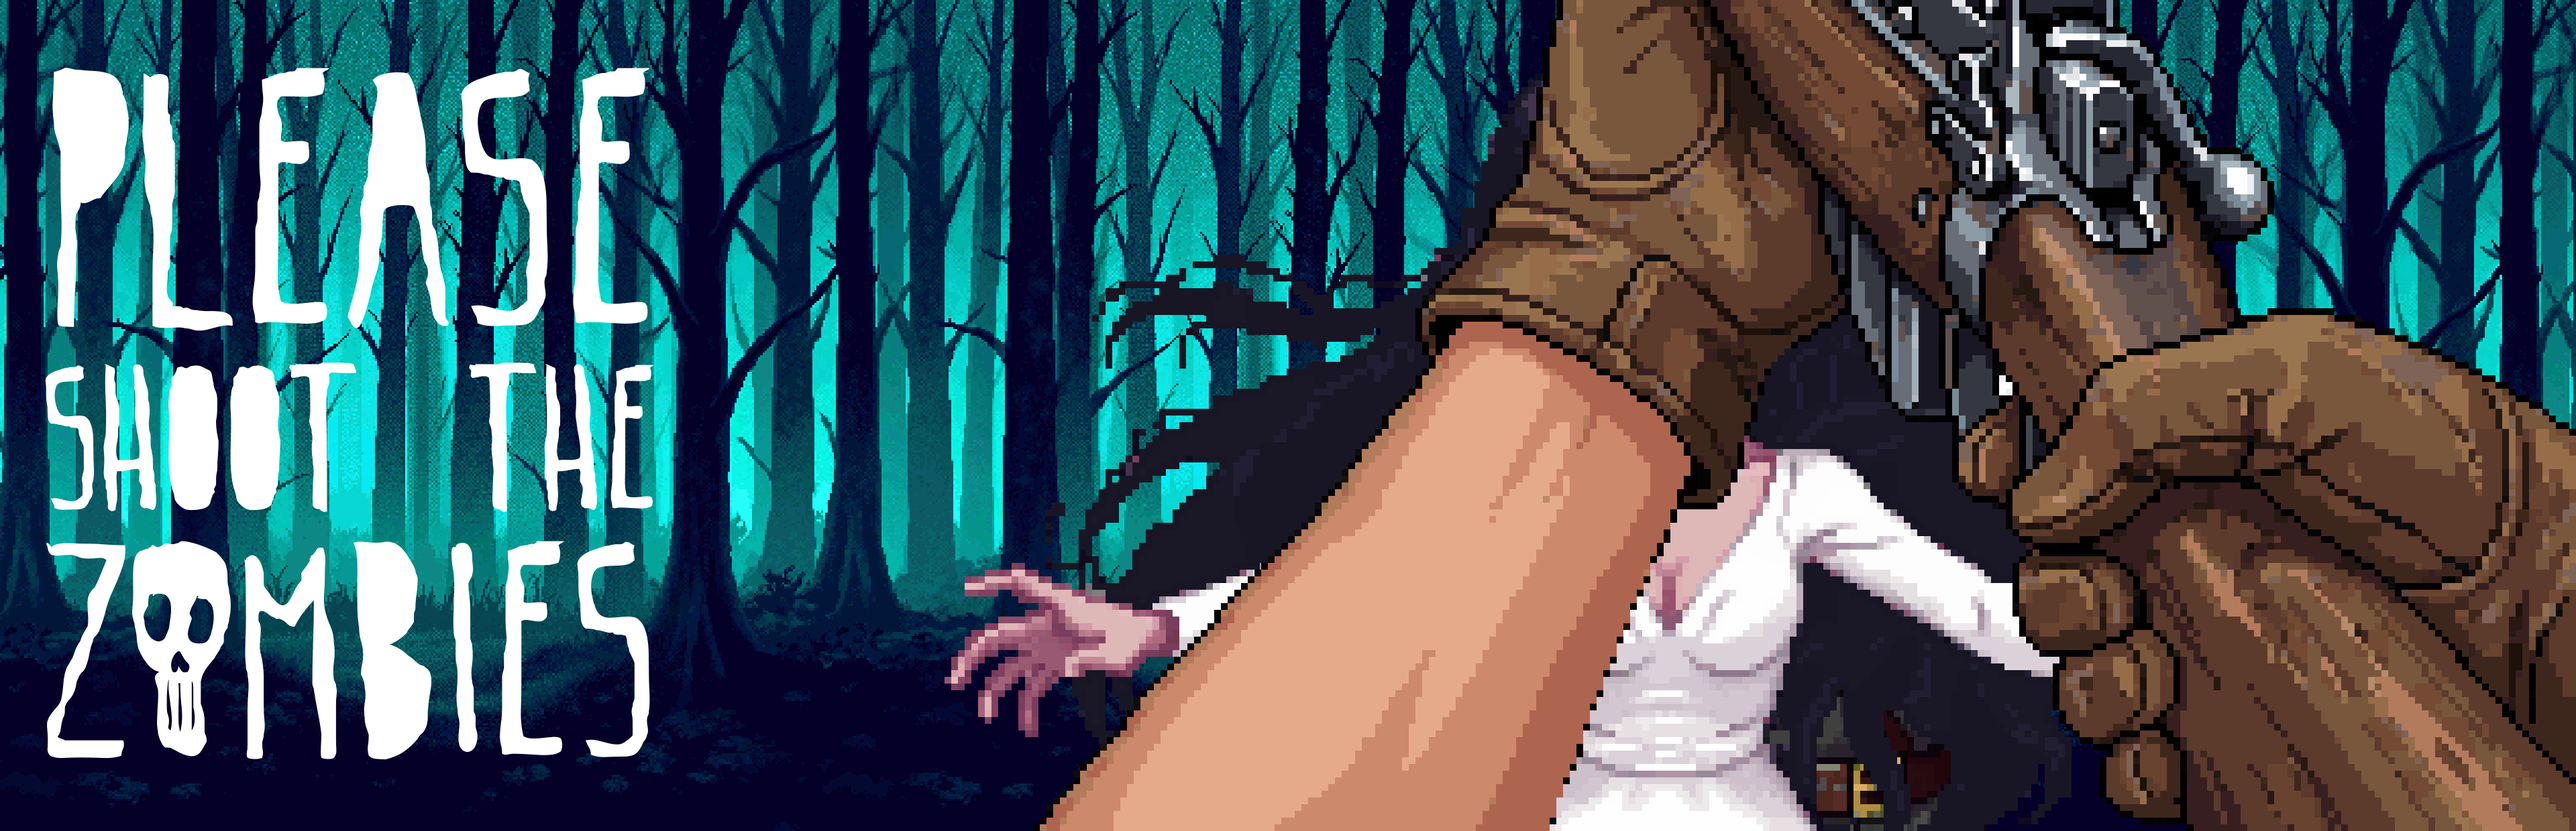
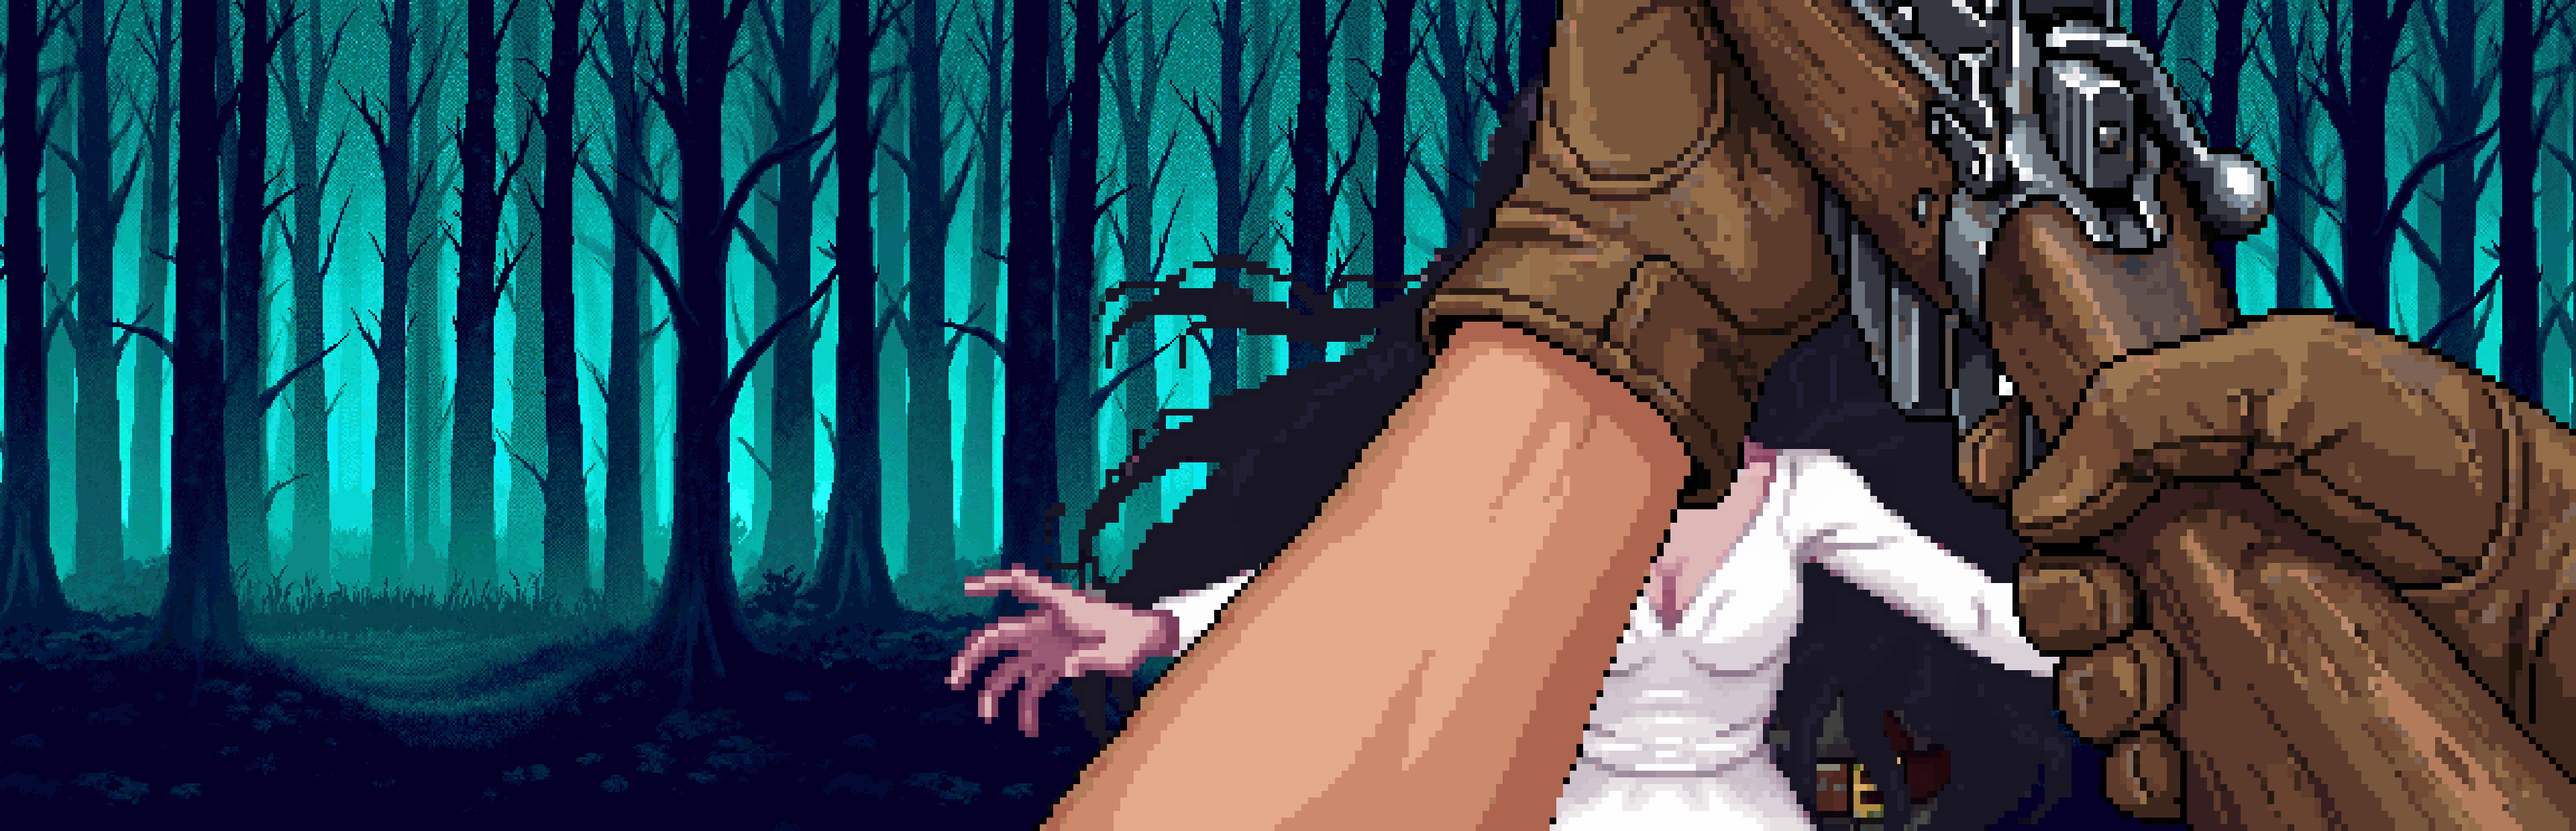
more capsules and fixed fov

diff --git a/capsule/generate-capsules.js b/capsule/generate-capsules.js
@@ -26,7 +26,8 @@ const LEE_ENFIELD_FRAME_W = 455;
 const LEE_ENFIELD_FRAME_H = 256;
 const BACKGROUND_PATH = path.join(ASSETS, 'backgrounds', 'spooky_forest.png');
 
-// Capsule definitions: [name, width, height, filename base]
+// Capsule definitions: [name, width, height, filename base, options?]
+// options: { noText } = artwork only (no title); { titleOnly } = logo/title only (e.g. library logo overlay)
 const CAPSULES = [
   ['header', 920, 430, 'header'],
   ['small', 462, 174, 'small'],
@@ -34,7 +35,14 @@ const CAPSULES = [
   ['vertical', 748, 896, 'vertical'],
   ['library_capsule', 600, 900, 'library_capsule'],
   ['library_header', 920, 430, 'library_header'],
-  ['library_hero', 3840, 1240, 'library_hero'],
+  ['library_hero', 3840, 1240, 'library_hero', { noText: true }], // Steam: artwork only (no logo)
+  ['page_background', 1438, 810, 'page_background', { noText: true }], // optional; subtle background
+  ['library_logo', 1280, 720, 'library_logo', { titleOnly: true }], // overlay on library hero
+];
+// Icons: generated after main capsule (center-crop square, scale). [filename base, size, ext]
+const ICONS = [
+  ['shortcut_icon', 256, 'png'],
+  ['app_icon', 184, 'jpg'],
 ];
 
 // Text: "Zombies" with 0 (skull) as the second letter
@@ -57,8 +65,9 @@ const TEXT_GAP_RATIO = 0.02; // gap between text right edge and character left
 
 /**
  * Draw background: spooky_forest.png scaled to canvas height, tiled horizontally if not wide enough.
+ * If dim is 0..1, fill with semi-transparent dark overlay to make it subtler (e.g. page background).
  */
-function drawBackground(ctx, w, h, bgImage) {
+function drawBackground(ctx, w, h, bgImage, dim = 0) {
   if (!bgImage) {
     ctx.fillStyle = '#1a0a2e';
     ctx.fillRect(0, 0, w, h);
@@ -72,6 +81,10 @@ function drawBackground(ctx, w, h, bgImage) {
   const drawH = h;
   for (let x = 0; x < w; x += drawW) {
     ctx.drawImage(bgImage, 0, 0, iw, ih, x, 0, drawW, drawH);
+  }
+  if (dim > 0) {
+    ctx.fillStyle = `rgba(0,0,0,${dim})`;
+    ctx.fillRect(0, 0, w, h);
   }
 }
 
@@ -150,21 +163,25 @@ function fontSizeForWidth(font, line, targetWidth, maxFontSize = MAX_FONT_SIZE) 
  * Draw title so it fits inside the title box. White text.
  * Wide capsule: most of height, equidistant from top-left and bottom-left (vertically centered on left).
  * Tall capsule: most of width, equidistant from top-left and top-right (horizontally centered at top).
+ * If centerBox is true (e.g. library logo), use a centered box over most of the canvas.
  */
-function drawTitle(ctx, w, h, font) {
+function drawTitle(ctx, w, h, font, centerBox = false) {
   if (!font) return;
   const margin = Math.min(w, h) * TITLE_MARGIN_RATIO;
   const isWide = w >= h;
 
   let boxLeft, boxTop, boxWidth, boxHeight;
-  if (isWide) {
-    // Text stays left of character block (zombies to the right)
+  if (centerBox) {
+    boxWidth = w * 0.9;
+    boxHeight = h * 0.7;
+    boxLeft = (w - boxWidth) / 2;
+    boxTop = (h - boxHeight) / 2;
+  } else if (isWide) {
     boxHeight = h * TITLE_USE_DIMENSION_RATIO;
     boxTop = (h - boxHeight) / 2;
     boxLeft = margin;
     boxWidth = Math.min(w * 0.48, w * ART_LEFT_RATIO - margin - w * TEXT_GAP_RATIO);
   } else {
-    // Text stays left of character block (zombies to the right)
     boxTop = margin;
     boxHeight = h * 0.38;
     boxLeft = margin;
@@ -174,7 +191,6 @@ function drawTitle(ctx, w, h, font) {
   const unitsPerEm = font.unitsPerEm || 1000;
   const ascender = font.ascender != null ? font.ascender : 800;
 
-  // Use a target width all three lines can achieve (cap by max font size so library hero stays consistent)
   const maxWidthAtCap = Math.min(...LINES.map((line) => font.getAdvanceWidth(line, MAX_FONT_SIZE)));
   const targetWidth = Math.min(boxWidth, maxWidthAtCap);
   let fontSizes = LINES.map((line) => fontSizeForWidth(font, line, targetWidth));
@@ -190,7 +206,6 @@ function drawTitle(ctx, w, h, font) {
     totalHeight = boxHeight;
   }
 
-  // Vertically center the block within the box
   let lineTop = boxTop + (boxHeight - totalHeight) / 2;
   const white = '#ffffff';
   ctx.fillStyle = white;
@@ -206,26 +221,32 @@ function drawTitle(ctx, w, h, font) {
   });
 }
 
-async function generateOne(name, width, height, filenameBase, femaleGhoul, gasMask, rifleImage, backgroundImage, font) {
+async function generateOne(name, width, height, filenameBase, femaleGhoul, gasMask, rifleImage, backgroundImage, font, options = {}) {
+  const { noText = false, titleOnly = false } = options;
   const canvas = createCanvas(width, height);
   const ctx = canvas.getContext('2d');
 
   ctx.imageSmoothingEnabled = false;
 
-  drawBackground(ctx, width, height, backgroundImage);
+  if (titleOnly) {
+    // Library logo: title only on transparent background (overlays on hero)
+    drawTitle(ctx, width, height, font, true);
+  } else {
+    const dim = name === 'page_background' ? 0.4 : 0;
+    drawBackground(ctx, width, height, backgroundImage, dim);
+    const margin = Math.min(width, height) * 0.05;
+    const maxArtW = (width - margin) - width * ART_LEFT_RATIO;
+    const maxArtH = height * ART_HEIGHT_RATIO;
+    const maxSw = Math.max(femaleGhoul?.width ?? 0, gasMask?.width ?? 0) || 1;
+    const maxSh = Math.max(femaleGhoul?.height ?? 0, gasMask?.height ?? 0) || 1;
+    let artScale = integerScale(maxSw, maxSh, maxArtW, maxArtH * 1.15);
+    if (name !== 'small') artScale *= 2;
 
-  const margin = Math.min(width, height) * 0.05;
-  const maxArtW = (width - margin) - width * ART_LEFT_RATIO;
-  const maxArtH = height * ART_HEIGHT_RATIO;
-  const maxSw = Math.max(femaleGhoul?.width ?? 0, gasMask?.width ?? 0) || 1;
-  const maxSh = Math.max(femaleGhoul?.height ?? 0, gasMask?.height ?? 0) || 1;
-  let artScale = integerScale(maxSw, maxSh, maxArtW, maxArtH * 1.15);
-  if (name !== 'small') artScale *= 2;
+    await drawCharacters(ctx, width, height, femaleGhoul, gasMask, artScale);
+    drawRifle(ctx, width, height, rifleImage, artScale);
 
-  await drawCharacters(ctx, width, height, femaleGhoul, gasMask, artScale);
-  drawRifle(ctx, width, height, rifleImage, artScale);
-
-  drawTitle(ctx, width, height, font);
+    if (!noText) drawTitle(ctx, width, height, font);
+  }
 
   const outPath = path.join(OUT_DIR, `${filenameBase}_english.png`);
   const buf = canvas.toBuffer('image/png');
@@ -274,8 +295,35 @@ async function main() {
 
   if (!fs.existsSync(OUT_DIR)) fs.mkdirSync(OUT_DIR, { recursive: true });
 
-  for (const [name, w, h, base] of CAPSULES) {
-    await generateOne(name, w, h, base, femaleGhoul, gasMask, rifleImage, backgroundImage, font);
+  for (const row of CAPSULES) {
+    const [name, w, h, base] = row;
+    const options = row[4] || {};
+    await generateOne(name, w, h, base, femaleGhoul, gasMask, rifleImage, backgroundImage, font, options);
+  }
+
+  // Icons: center-crop from main capsule and scale
+  const mainPath = path.join(OUT_DIR, 'main_english.png');
+  if (fs.existsSync(mainPath)) {
+    const mainBuf = fs.readFileSync(mainPath);
+    const mainMeta = await sharp(mainBuf).metadata();
+    const iw = mainMeta.width || 1232;
+    const ih = mainMeta.height || 706;
+    const cropSize = Math.min(iw, ih);
+    const left = Math.floor((iw - cropSize) / 2);
+    const top = Math.floor((ih - cropSize) / 2);
+    for (const [base, size, ext] of ICONS) {
+      const outPath = path.join(OUT_DIR, `${base}_english.${ext}`);
+      let pipeline = sharp(mainBuf).extract({ left, top, width: cropSize, height: cropSize }).resize(size, size);
+      if (ext === 'jpg') {
+        pipeline = pipeline.jpeg({ quality: 92 });
+      } else {
+        pipeline = pipeline.png();
+      }
+      await pipeline.toFile(outPath);
+      console.log(`Wrote ${outPath}`);
+    }
+  } else {
+    console.warn('Skipping icons (main_english.png not found). Generate capsules first.');
   }
 
   console.log('Done.');

diff --git a/src/app.js b/src/app.js
@@ -391,9 +391,8 @@ function generateBunkerLayout(layout = BUNKER_LAYOUT) {
     const innerIndex = i - corner;
     if (step > 1 && (innerIndex % step) !== 0) return 'wall';
     const compactIndex = Math.floor(innerIndex / step);
-    const compactCount = baseTilesX; // north/south
-    const compactCountZ = baseTilesZ; // east/west
-    const baseCount = (side === 'north' || side === 'south') ? compactCount : compactCountZ;
+    const baseCount = Math.max(0, layout[side] ?? 0);
+    if (baseCount === 0 || compactIndex >= baseCount) return 'wall';
     const center = Math.floor((baseCount - 1) / 2);
     if (side === BUNKER_EMPTY_WALL_SIDE) return 'wall';
     if (side === BUNKER_CRATE_SIDE && compactIndex === center) return 'door';
@@ -1523,6 +1522,7 @@ function getZombieDrawInfo(z) {
 }
 
 const PIXEL_HIT_ALPHA_THRESHOLD = 1;
+const TREE_PIXEL_HIT_ALPHA_THRESHOLD = 128; // only block on clearly opaque pixels; let shot through transparent/anti-aliased edges
 
 function hitTestZombies(px, py) {
   if (!assets.zombieSprites?.length) return -1;
@@ -1597,6 +1597,7 @@ function treeBlocksPoint(t, info, px, py) {
     treeHoleCanvas.height = TREE_SPRITE_SIZE;
     treeHoleCtx = treeHoleCanvas.getContext('2d');
   }
+  treeHoleCtx.clearRect(0, 0, TREE_SPRITE_SIZE, TREE_SPRITE_SIZE);
   const { col, row } = getTreeGridCell(t.spriteIndex);
   treeHoleCtx.drawImage(
     assets.retrotree,
@@ -1611,7 +1612,7 @@ function treeBlocksPoint(t, info, px, py) {
   const ty = Math.floor(hitTy);
   if (tx < 0 || tx >= TREE_SPRITE_SIZE || ty < 0 || ty >= TREE_SPRITE_SIZE) return false;
   const alpha = idata.data[(ty * TREE_SPRITE_SIZE + tx) * 4 + 3];
-  return alpha >= PIXEL_HIT_ALPHA_THRESHOLD;
+  return alpha >= TREE_PIXEL_HIT_ALPHA_THRESHOLD;
 }
 
 /** Returns { type: 'zombie'|'tree', index } for the closest hit, or null. */
@@ -1830,8 +1831,8 @@ function screenXToHorizonAngle(screenX, horizonY) {
   return Math.atan2(wz - cameraZ, wx - cameraX);
 }
 
-const HORIZON_FOREST_STRIP_RATIO = 0.3;
-const HORIZON_FOREST_REPEAT_COUNT = 32;
+const HORIZON_FOREST_STRIP_RATIO = 0.5;
+const HORIZON_FOREST_REPEAT_COUNT = 26;
 const HORIZON_FOREST_HORIZON_ROW = 275;
 const HORIZON_FOREST_GROUND_FADE_RATIO = 0.4;
 const HORIZON_FOREST_GROUND_ALPHA = 0.65;
@@ -1846,7 +1847,8 @@ function getHorizonForestDrawState() {
   const hz = cameraZ + (forward.z / lenXZ) * far;
   const horizonProj = project(hx, 0, hz);
   const horizonY = horizonProj ? horizonProj.sy : H / 2;
-  const stripHeight = H * HORIZON_FOREST_STRIP_RATIO;
+  const fovZoom = FOV / getFOV();
+  const stripHeight = H * HORIZON_FOREST_STRIP_RATIO * fovZoom;
   const centerAngle = Math.atan2(forward.z, forward.x);
   const angle0Ray = screenXToHorizonAngle(0, horizonY);
   const angle1Ray = screenXToHorizonAngle(W, horizonY);

diff --git a/capsule/CAPSULE_ART_GUIDE.md b/capsule/CAPSULE_ART_GUIDE.md
@@ -17,9 +17,43 @@ Design for the smallest size first (e.g. small capsule at 462×174, or the 120×
 
 ---
 
-## Dimensions and which capsule each size is for
+## Directory of asset formats (Steam)
 
-All dimensions are **width × height** in pixels. PNG is typical.
+Steam groups assets into three areas. All dimensions are **width × height** in pixels unless noted. Check the platform’s latest docs for required/optional and formats.
+
+### Store graphical assets (store page)
+
+| Dimensions (W×H) | Name            | Required | Notes |
+|------------------|-----------------|----------|--------|
+| **920 × 430**    | Header capsule  | Yes      | Store page top, recommendations, Big Picture. Logo and artwork. |
+| **462 × 174**    | Small capsule  | Yes      | Search results, lists. Steam derives smaller thumbnails (e.g. 120×45) — keep logo readable at small size. |
+| **1232 × 706**   | Main capsule   | Yes      | Homepage carousel, wishlist emails. Logo and artwork. |
+| **748 × 896**    | Vertical capsule | Yes    | Seasonal sales, some sale layouts. Logo and artwork. |
+| **1920 × 1080** (or larger, 16∶9) | Screenshots | Yes (min. 1) | In-game or UI screenshots; 16∶9 ratio. |
+| **1438 × 810**   | Page background | No      | Store page background; keep subtle, not too bright. |
+| (varies)         | Bundle images  | No*      | *Required only if you set up a bundle. See Steam bundle asset docs. |
+
+### Community and client icons
+
+| Dimensions (W×H) | Name           | Required | Format | Notes |
+|------------------|----------------|----------|--------|--------|
+| **256 × 256**    | Shortcut icon  | Yes      | .ico or .png | Desktop/taskbar; Steam can generate .ico from .png. |
+| **184 × 184**    | App icon       | Yes      | .jpg  | Small logo or representative icon for client/community. |
+
+### Library assets (Steam client library)
+
+| Dimensions (W×H) | Name               | Required | Notes |
+|------------------|--------------------|----------|--------|
+| **600 × 900**    | Library capsule    | Yes      | Library grid, collections. Logo and artwork. |
+| **3840 × 1240**  | Library hero       | Yes      | .png. Wide hero banner; artwork only (no logo). Keep key content in a safe area (e.g. center). |
+| **1280** wide **and/or** **720** tall | Library logo | Yes | .png. Shown on top of library hero. Either 1280px wide and/or 720px tall. |
+| **920 × 430**    | Library header capsule | Yes  | Library locations, recent games. Logo and artwork. |
+
+---
+
+## Dimensions and which capsule each size is for (summary)
+
+Same sizes in a compact “where it appears” view. PNG is typical unless noted above.
 
 ### Store capsules (store page, search, recommendations)
 
@@ -42,8 +76,9 @@ All dimensions are **width × height** in pixels. PNG is typical.
 
 | Dimensions (W×H) | Purpose |
 |------------------|--------|
-| **1280 × 720**   | Library logo (transparent or on a neutral background; aspect often 16∶9). |
-| **256 × 256**    | Shortcut / game icon (e.g. desktop, taskbar). |
+| **1280 × 720** (or 1280 wide and/or 720 tall) | Library logo (transparent or neutral background). |
+| **256 × 256**    | Shortcut / game icon (e.g. desktop, taskbar); .ico or .png. |
+| **184 × 184**    | App icon; .jpg (client/community). |
 | **1438 × 810**   | Page background (optional; store page background). |
 
 ---
